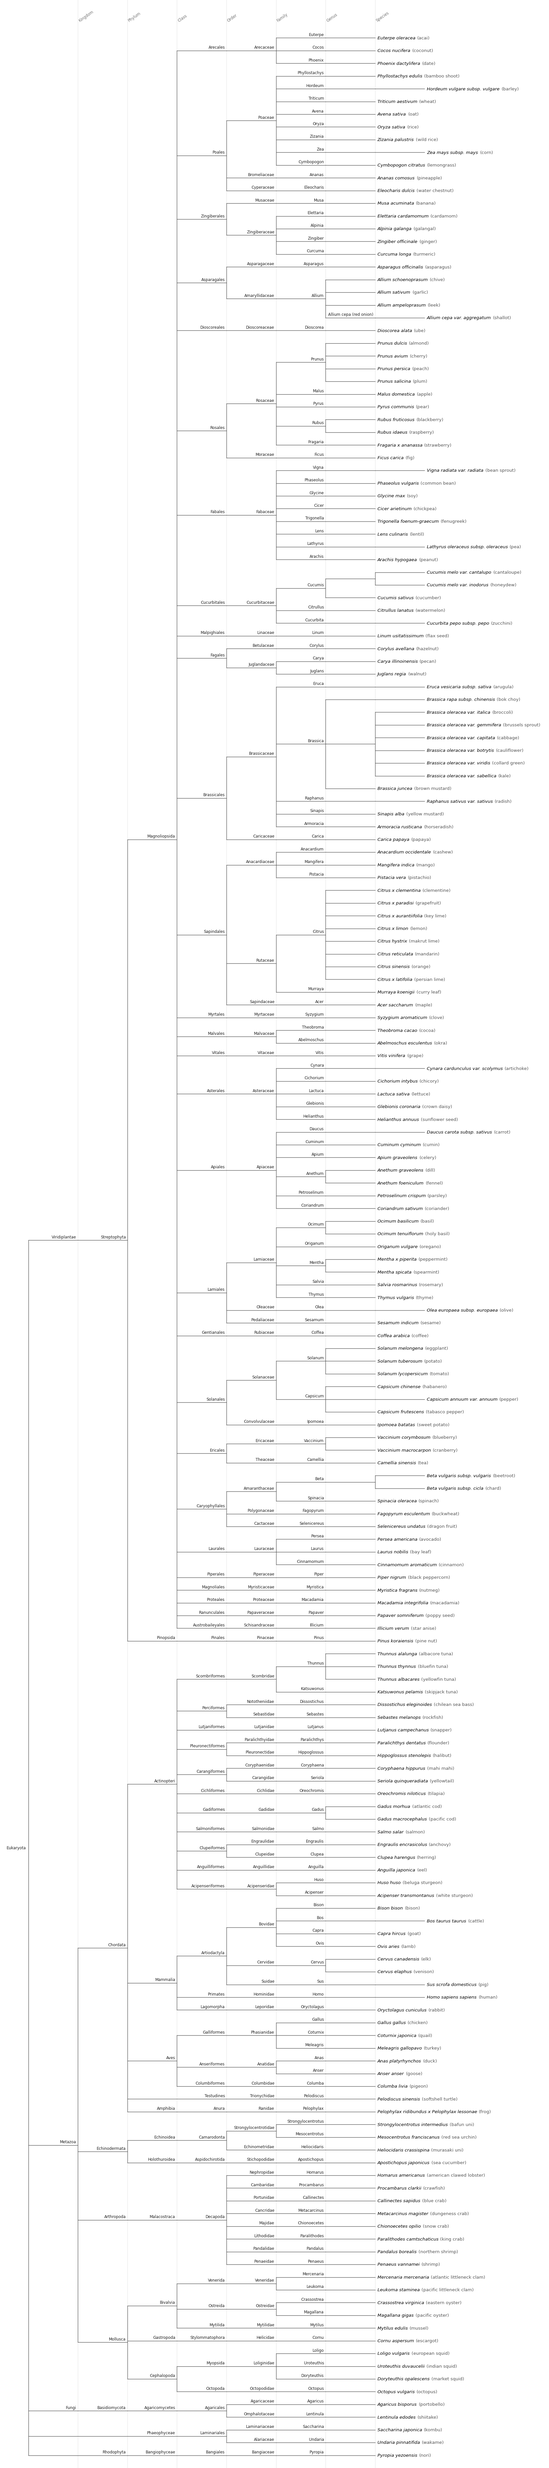
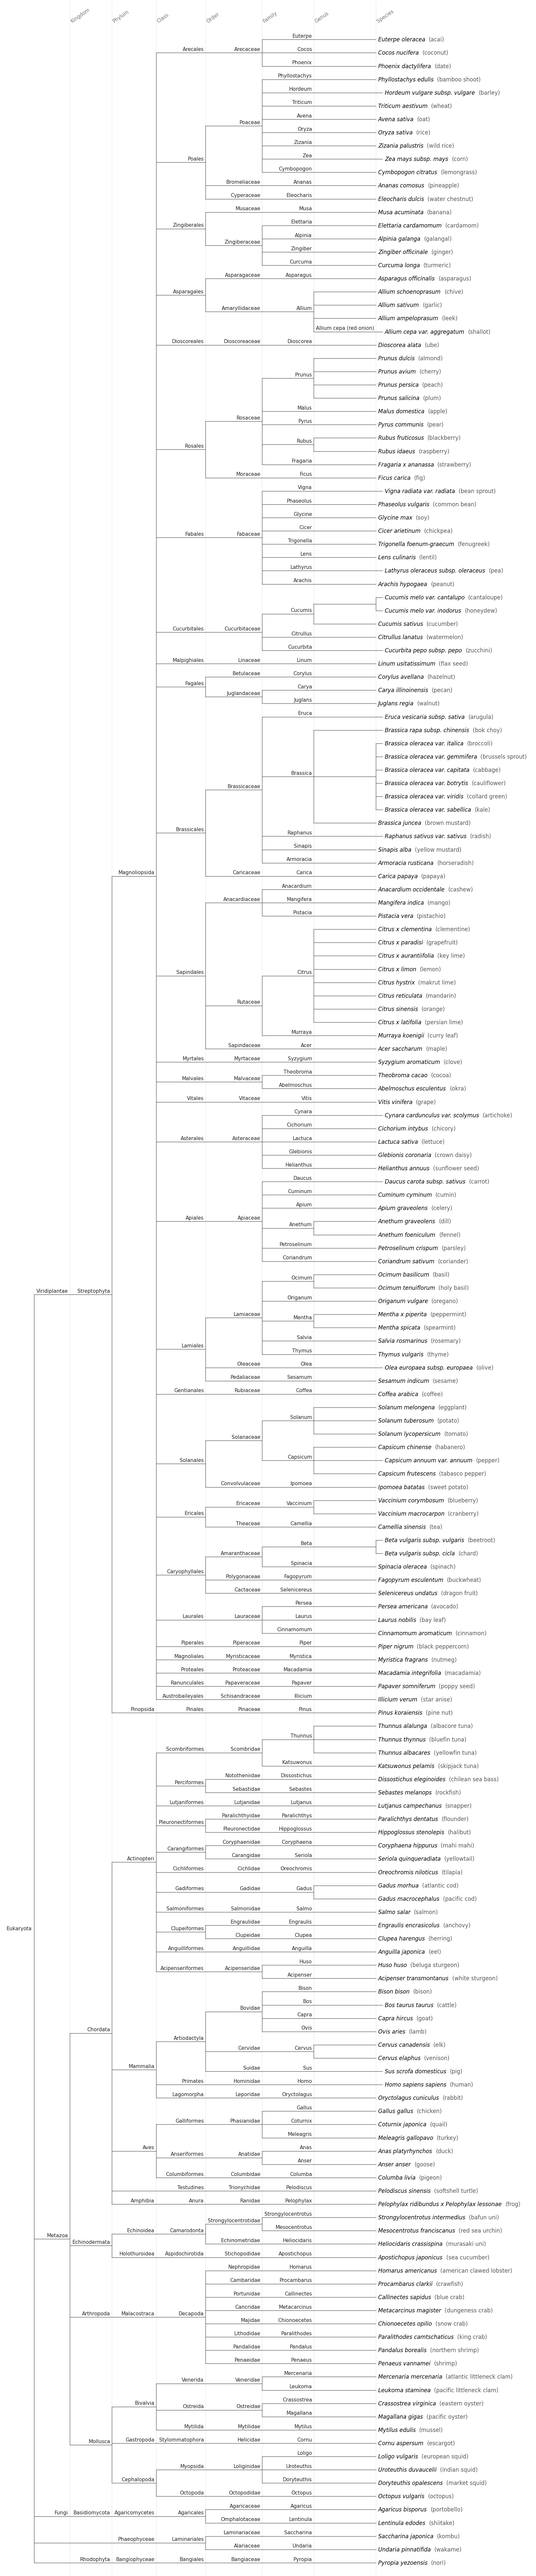
Bigger text and compact spacing in the cladograms
- Clade labels 9 pt (was 7), organisms 10 pt (was 8), rank headings 9 pt
- Each depth step is only as wide as the labels ending in it need,
  instead of every step being as wide as the tightest label anywhere.
  Rank columns stay aligned. The full cladogram is about half as wide
  (6628 px instead of 12808) despite the larger text.

diff --git a/make_tree.py b/make_tree.py
@@ -254,9 +254,25 @@ def leaf_common_names(folder=taxonomy_dir):
             names.setdefault(leaf, []).append(filename[:-4].replace("_", " "))
     return {leaf: ", ".join(common) for leaf, common in names.items()}
 
-LABEL_SIZE = 7
-LEAF_SIZE = 8
-ROW_HEIGHT = 23   # points between organisms
+LABEL_SIZE = 9    # clade names
+LEAF_SIZE = 10    # organisms
+HEADING_SIZE = 9  # rank column headings
+ROW_HEIGHT = 24   # points between organisms
+MIN_STEP = 12     # narrowest depth step, in points
+
+def step_widths(max_depth, spans):
+    # Width in points of each depth step (step d runs from depth d-1 to d), so that
+    # every label fits on its branch: spans are (parent depth, depth, points needed).
+    # Steps only get as wide as the labels crossing them need, instead of every
+    # step being as wide as the tightest label anywhere.
+    widths = [0.0] + [float(MIN_STEP)] * max_depth
+    # Short spans first, so longer ones can use the room those already added
+    for start, end, need in sorted(spans, key=lambda span: span[1] - span[0]):
+        deficit = need - sum(widths[start + 1:end + 1])
+        if deficit > 0:
+            for step in range(start + 1, end + 1):
+                widths[step] += deficit / (end - start)
+    return widths
 
 def draw_tree(root, depths, major, path, fmt=None, common_names=None, dpi=None):
     # path is a file name, or a file object with fmt ("svg", "png"...) given.
@@ -288,52 +304,53 @@ def draw_tree(root, depths, major, path, fmt=None, common_names=None, dpi=None):
         if node.eaten and common_names.get(node.value):
             text += f" ({common_names[node.value]})"
         labelled.append((node, x, y, text))
-    # Each depth step is made wide enough that every name fits on its own branch
-    unit = 60.0 if major else 30.0
-    for node, x, y, text in labelled:
-        unit = max(unit, (text_width(text, LABEL_SIZE) + 8) / (x - parent_x[id(node)]))
+    # Depth steps are sized from the labels, and depths become x positions in points
+    widths = step_widths(max_depth, [(parent_x[id(node)], x, text_width(text, LABEL_SIZE) + 8)
+                                     for node, x, y, text in labelled])
+    position = [sum(widths[:depth + 1]) for depth in range(max_depth + 1)]
     leaf_texts = {}
     for node, x, y, children in placed:
         if not children:
             common = common_names.get(node.value)
             leaf_texts[id(node)] = (node.value, f"({common})" if common else "")
-    right_points = max(text_width(name, LEAF_SIZE, "italic") + 4 + text_width(common, LEAF_SIZE)
+    right_points = max(text_width(name, LEAF_SIZE, "italic") + 6 + text_width(common, LEAF_SIZE)
                        for name, common in leaf_texts.values()) + 20
     left_points = text_width(root.value, LABEL_SIZE) + 16
-    width = left_points + (max_depth - placed[-1][1]) * unit + right_points
+    width = left_points + position[max_depth] + right_points
     height = (leaf_count + 3.5) * ROW_HEIGHT
 
     fig = plt.figure(figsize=(width / 72, height / 72))
     ax = fig.add_axes([0, 0, 1, 1])
-    ax.set_xlim(placed[-1][1] - left_points / unit, max_depth + right_points / unit)
+    ax.set_xlim(-left_points, position[max_depth] + right_points)
     ax.set_ylim(leaf_count, -3.0)
     ax.axis("off")
 
     for node, x, y, children in placed:
         if children:
-            ax.plot([x, x], [children[0][2], children[-1][2]], color="#555555", linewidth=0.8)
+            ax.plot([position[x]] * 2, [children[0][2], children[-1][2]], color="#555555", linewidth=0.8)
             for _, child_x, child_y, _ in children:
-                ax.plot([x, child_x], [child_y, child_y], color="#555555", linewidth=0.8)
+                ax.plot([position[x], position[child_x]], [child_y, child_y], color="#555555", linewidth=0.8)
         else:
             name, common = leaf_texts[id(node)]
-            ax.annotate(name, (x, y), xytext=(4, 0), textcoords="offset points",
+            ax.annotate(name, (position[x], y), xytext=(4, 0), textcoords="offset points",
                         ha="left", va="center", fontsize=LEAF_SIZE, style="italic")
             if common:
-                ax.annotate(common, (x, y), xytext=(8 + text_width(name, LEAF_SIZE, "italic"), 0),
+                ax.annotate(common, (position[x], y), xytext=(10 + text_width(name, LEAF_SIZE, "italic"), 0),
                             textcoords="offset points", ha="left", va="center", fontsize=LEAF_SIZE, color="#555555")
     for node, x, y, text in labelled:
         # Ranked clades in dark text, unranked clades lighter
-        ax.annotate(text, (x, y), xytext=(-3, 2), textcoords="offset points", ha="right", va="bottom",
+        ax.annotate(text, (position[x], y), xytext=(-3, 2), textcoords="offset points", ha="right", va="bottom",
                     fontsize=LABEL_SIZE, color="#222222" if node.code or node.eaten else "#888888")
     _, root_x, root_y, _ = placed[-1]
-    ax.annotate(root.value, (root_x, root_y), xytext=(-4, 0), textcoords="offset points",
+    ax.annotate(root.value, (position[root_x], root_y), xytext=(-4, 0), textcoords="offset points",
                 ha="right", va="center", fontsize=LABEL_SIZE, color="#222222")
 
     # Column headings for the aligned major ranks, angled so close ranks don't overlap
     rank_depths = {code: RANK_ORDER.index(code) + 1 for code in RANK_ORDER} if major else depths
     for code, x in rank_depths.items():
-        ax.text(x, -1.2, RANK_NAMES[code], ha="left", va="bottom", rotation=35, fontsize=7, color="#777777")
-        ax.axvline(x, color="#dddddd", linewidth=0.5, zorder=0)
+        ax.text(position[x], -1.2, RANK_NAMES[code], ha="left", va="bottom", rotation=35,
+                fontsize=HEADING_SIZE, color="#777777")
+        ax.axvline(position[x], color="#dddddd", linewidth=0.5, zorder=0)
     fig.savefig(path, format=fmt, dpi=dpi)
     plt.close(fig)
 

diff --git a/tests/test_make_tree.py b/tests/test_make_tree.py
@@ -185,6 +185,17 @@ class TreeTests(unittest.TestCase):
         self.assertIn("Fo'o", names)
         self.assertIn("Avena sativa", {name for name, _, _, _ in walk(parse_newick(major))})
 
+    def test_step_widths_fit_every_label_without_widening_other_steps(self):
+        spans = [(0, 1, 50.0), (1, 3, 100.0), (3, 4, 5.0), (0, 4, 40.0)]
+        widths = make_tree.step_widths(5, spans)
+        for start, end, need in spans:
+            self.assertGreaterEqual(sum(widths[start + 1:end + 1]) + 1e-9, need)
+        # Steps no label needs stay at the minimum
+        self.assertEqual(widths[4], make_tree.MIN_STEP)
+        self.assertEqual(widths[5], make_tree.MIN_STEP)
+        # The two-step label is shared across both of its steps
+        self.assertAlmostEqual(widths[2], widths[3])
+
     def test_leaf_common_names_come_from_file_names(self):
         write_folder(self.folder, {"american_clawed_lobster.txt": HUMAN, "apple.txt": APPLE, "apple_2.txt": APPLE})
         self.assertEqual(make_tree.leaf_common_names(self.folder),
